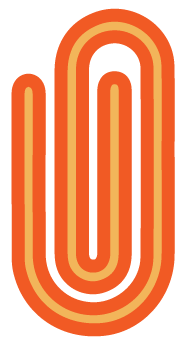
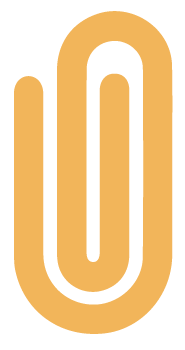
show task attachment link

diff --git a/src/pages/tasks/Task.js b/src/pages/tasks/Task.js
@@ -1,23 +1,71 @@
-import React from "react";
-import { Media } from "react-bootstrap";
+import React, { useState } from "react";
+import { Card, Col, Image, Row } from "react-bootstrap";
 import styles from "../../styles/Task.module.css";
+import btnStyles from "../../styles/Button.module.css";
+
+import { Link } from "react-router-dom/cjs/react-router-dom.min";
+import Upload from "../../assets/upload.png";
+import Uploaded from "../../assets/uploaded.png";
+
 
 const Task = (props) => {
-  const { owner, title, duedate } = props;
+  const { title, description, duedate, priority, status, attachment } = props;
+
+  // const [attachment] = useState();
+  const [message, setMessage] = useState();
+
+  const attachmentCheck = (attachment) => {
+    console.log(attachment)
+    if ( attachment !== null) {
+      setMessage(
+        <Link>
+        <p>{attachment}</p>
+        </Link>
+      );
+    }
+    else {
+      setMessage('No attachment');
+    }
+  };
+
 
   return (
-    <div>
-      <hr />
-      <Media>
-        <Media.Body className="align-self-center ml-2">
-          <span className={styles.Owner}>{owner}</span>
-          <p>
-            {title}
-            {duedate}
-          </p>
-        </Media.Body>
-      </Media>
-    </div>
+    <Card className={styles.Task}>
+      <Row>
+      <Col xs={6}>
+          <Card.Body>
+            <Row className={styles.Title}>{title}</Row>
+            <Row className={styles.Details}>{description}</Row>
+            <Row className={styles.Date}>{duedate}</Row>
+          </Card.Body>
+      </Col>
+
+
+      <Col xs={6}>
+        <Card.Body>
+
+
+            <div>
+              <button
+              onClick={() => attachmentCheck(attachment)}
+              className={`${btnStyles.Button} ${btnStyles.Wide} ${btnStyles.Light}`}
+              >
+              See attachment
+              <Image src={Uploaded} className={styles.Paperclip}/>
+              </button>
+              <p>{message}</p>
+            </div>
+
+
+          {/* <Col className={styles.Details}>{attachment}</Col> */}
+
+
+          <Col className={styles.Details}>{priority}</Col>
+          <Col className={styles.Details}>{status}</Col>
+        </Card.Body>
+      </Col>
+      </Row>
+    </Card>
   );
 };
 

diff --git a/src/styles/Task.module.css b/src/styles/Task.module.css
@@ -1,14 +1,24 @@
-.Owner {
-    font-weight: bold;
-    color: #2142b2;
-    margin-right: 8px;
-  }
-  
-  .Date {
-    font-weight: lighter;
-    color: #c1c1c5;
-  }
+.Task {
+  margin: 10px;
+  border-radius: 25px;
+}
 
-.Data {
-  background-color: aqua;
+.Title {
+  font-weight: bold;
+  color: #3A4A56;
+  margin-right: 8px;
+}
+
+.Details {
+  margin-right: 8px;
+}
+  
+.Date {
+  font-weight: lighter;
+  color: #c1c1c5;
+}
+
+.Paperclip{
+  max-height: 30px;
+margin: 10px;
 }

diff --git a/src/pages/boards/BoardPage.js b/src/pages/boards/BoardPage.js
@@ -34,6 +34,7 @@ function BoardPage() {
             if(board.is_owner){
               setBoard({ results: [board] });
               setTasks(tasks);
+              console.log(tasks)
             } else {
               history.push("/boards/")
             }            

diff --git a/src/App.module.css b/src/App.module.css
@@ -48,7 +48,7 @@
   }
   
   a:hover i {
-    color: #2142b2;
+    color: #3A4A56;
     transition: color ease-in-out 0.3s;
   }
   
